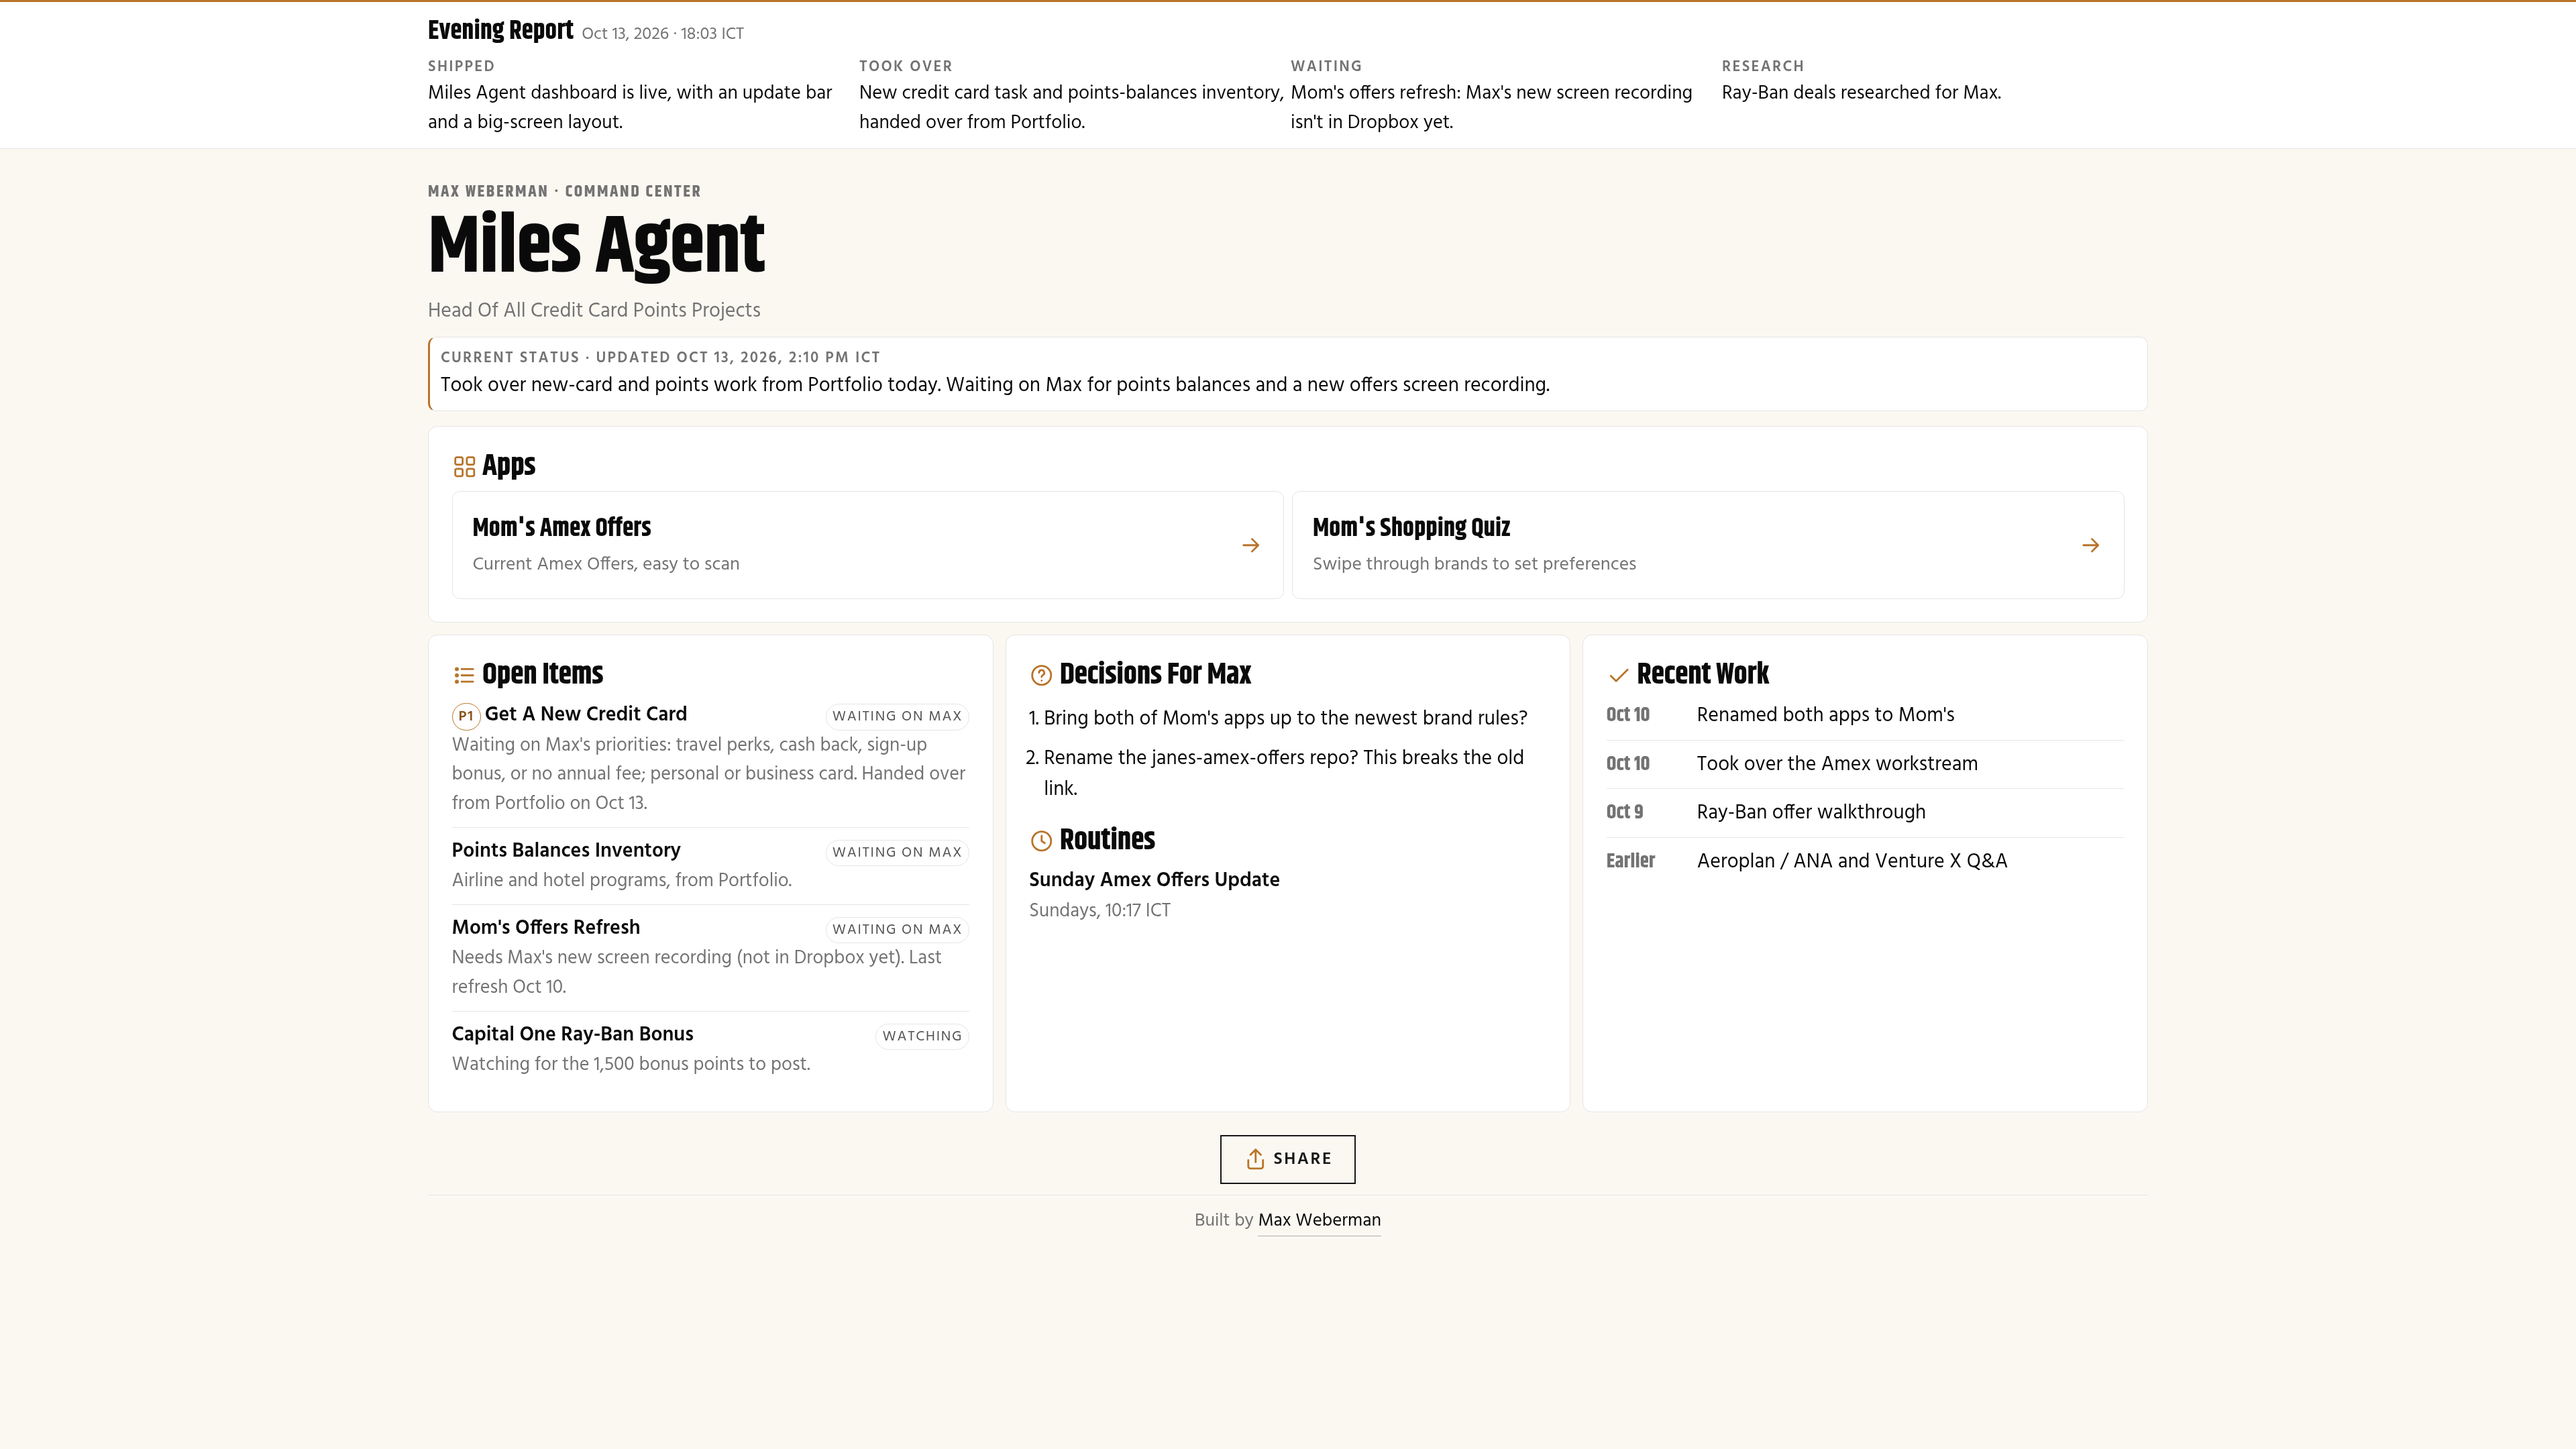
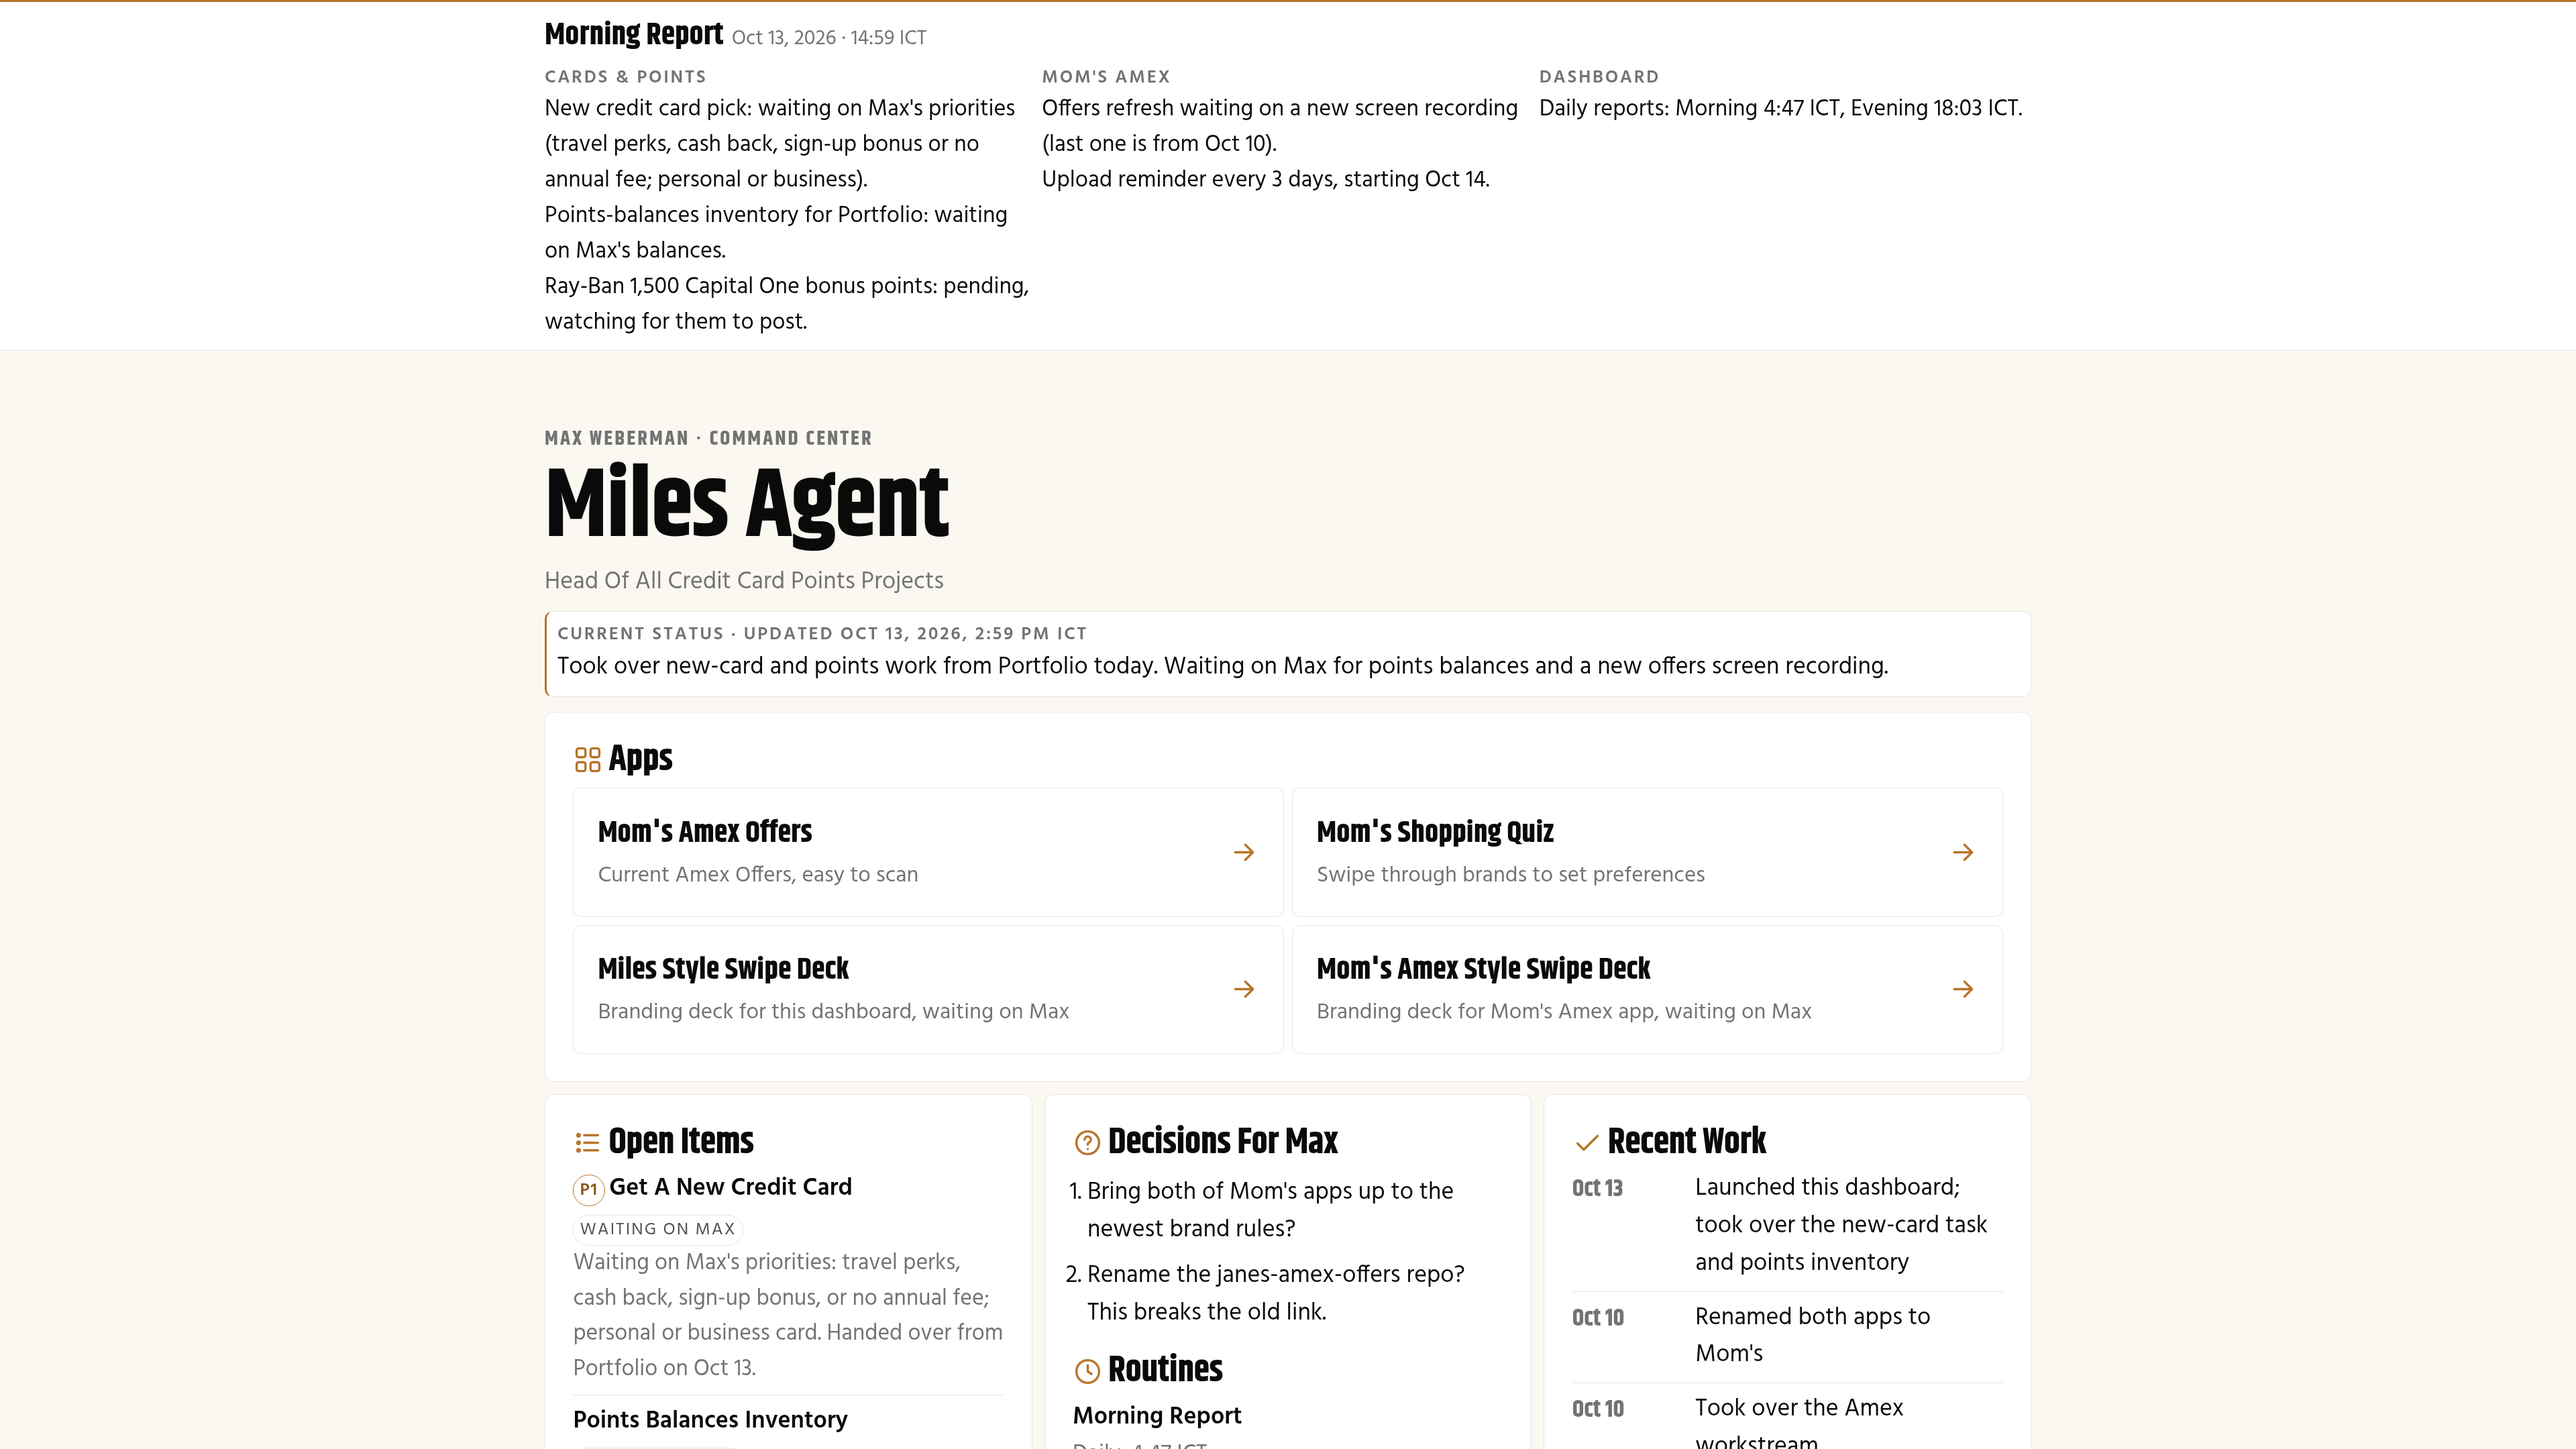
Fresh Morning Report, TV sizing, focus rings, deck links

diff --git a/index.html b/index.html
@@ -20,7 +20,7 @@ section.card{background:#fff;border:1px solid var(--mw-border);border-radius:14p
 a.app{display:flex;align-items:center;justify-content:space-between;gap:12px;min-height:4rem;padding:.9rem 1rem;border:1px solid var(--mw-border);border-radius:12px;text-decoration:none;color:inherit;background:#fff}
 a.app b{font-family:var(--mw-font-heading);font-size:1.25rem;display:block}a.app span{color:var(--mw-muted-text);font-size:.92rem}
 a.app svg{flex:none;transition:transform var(--mw-dur) var(--mw-ease)}a.app:hover svg{transform:translateX(3px)}
-ul{list-style:none;margin:0;padding:0}li.item{padding:12px 0;border-top:1px solid var(--mw-border)}li.item:first-child{border-top:0;padding-top:0}
+ul{list-style:none;margin:0;padding:0}li.item.r{display:flex;gap:.6em}li.item{padding:12px 0;border-top:1px solid var(--mw-border)}li.item:first-child{border-top:0;padding-top:0}
 .row{display:flex;justify-content:space-between;gap:10px;align-items:baseline;flex-wrap:wrap}
 .t{font-weight:600}.d{color:var(--mw-muted-text);font-size:.94rem}
 .pill{font-size:.72rem;text-transform:uppercase;letter-spacing:.08em;border:1px solid var(--mw-border);border-radius:999px;padding:2px 9px;white-space:nowrap;color:#525252}
@@ -40,9 +40,11 @@ footer a{color:var(--mw-foreground);text-decoration:none;border-bottom:1px solid
 .utitle{font-family:var(--mw-font-heading);font-weight:700;font-size:1.3rem}.uts{color:var(--mw-muted-text);font-size:.85rem}
 .ulines{display:grid;gap:8px}@media(min-width:760px){.ulines{grid-template-columns:repeat(2,1fr)}}
 .ug{font-size:.95rem}.ug .lbl{display:block}.ug p{margin:0}
-@media(min-width:1700px){html{font-size:18px}.wrap,.ubin{max-width:1500px}.grid{grid-template-columns:repeat(3,1fr)}.ulines{grid-template-columns:repeat(4,1fr)}.grid .recent{grid-column:auto}}
-@media(min-width:2400px){html{font-size:22px}.wrap,.ubin{max-width:1900px}}
-@media(min-width:3200px){html{font-size:30px}.wrap,.ubin{max-width:2600px}}
+@media(min-width:1700px){html{font-size:18px}.wrap,.ubin{max-width:1500px}.grid{grid-template-columns:repeat(3,1fr)}.ulines{grid-template-columns:repeat(auto-fit,minmax(14em,1fr))}.grid .recent{grid-column:auto}}
+@media(min-width:1900px){html{font-size:21px}}@media(min-width:2400px){html{font-size:24px}.wrap,.ubin{max-width:1900px}}
+@media(min-width:3200px){html{font-size:36px}.wrap,.ubin{max-width:2600px}}
+a:focus-visible,button:focus-visible{outline:3px solid #B8742A;outline-offset:3px}
+@media(min-width:1900px){.wrap,.ubin{padding-left:5vw;padding-right:5vw}.wrap{padding-top:5vh}footer{padding-bottom:5vh}}
 </style></head><body>
 <svg width="0" height="0" style="position:absolute"><defs>
 <symbol id="i-grid" viewBox="0 0 24 24"><rect x="3" y="3" width="7" height="7" rx="1.5"/><rect x="14" y="3" width="7" height="7" rx="1.5"/><rect x="3" y="14" width="7" height="7" rx="1.5"/><rect x="14" y="14" width="7" height="7" rx="1.5"/></symbol>
@@ -78,7 +80,7 @@ $('apps').innerHTML=D.apps.map(a=>`<a class="app mw-hover" href="${e(a.url)}" ta
 $('open').innerHTML=D.openItems.map(i=>`<li class="item"><div class="row"><div class="t">${i.pri?`<span class="pill p1">${e(i.pri)}</span>`:''}${e(i.title)}</div><span class="pill">${e(i.state)}</span></div><div class="d">${e(i.detail)}</div></li>`).join('');
 $('dec').innerHTML=D.decisions.map(d=>`<li>${e(d)}</li>`).join('');
 $('rout').innerHTML=D.routines.map(r=>`<li class="item"><div class="t">${e(r.name)}</div><div class="d">${e(r.when)}</div></li>`).join('');
-$('recent').innerHTML=D.recent.map(r=>`<li class="item"><span class="date">${e(r.date)}</span>${e(r.text)}</li>`).join('');
+$('recent').innerHTML=D.recent.map(r=>`<li class="item r"><span class="date">${e(r.date)}</span>${e(r.text)}</li>`).join('');
 $('share').onclick=async()=>{const u=location.href;try{if(navigator.share){await navigator.share({title:document.title,url:u});return}}catch(x){return}
 try{await navigator.clipboard.writeText(u)}catch(x){}const t=$('toast');t.style.display='block';setTimeout(()=>t.style.display='none',1600)};
 </script></body></html>

diff --git a/data.js b/data.js
@@ -4,22 +4,29 @@ window.DASH = {
   // Update bar: routines replace this (Morning Report 4:47 ICT, Evening Report 18:03 ICT).
   // lines can be plain strings, or groups: { category: "...", lines: ["..."] }
   report: {
-    title: "Evening Report",
-    timestamp: "Oct 13, 2026 · 14:10 ICT",
+    title: "Morning Report",
+    timestamp: "Oct 13, 2026 · 14:59 ICT",
     lines: [
-      { category: "Shipped", lines: ["Miles Agent dashboard is live, with an update bar and a big-screen layout."] },
-      { category: "Took Over", lines: ["New credit card task and points-balances inventory, handed over from Portfolio."] },
-      { category: "Waiting", lines: ["Mom's offers refresh: Max's new screen recording isn't in Dropbox yet."] },
-      { category: "Research", lines: ["Ray-Ban deals researched for Max."] }
+      { category: "Cards & Points", lines: [
+        "New credit card pick: waiting on Max's priorities (travel perks, cash back, sign-up bonus or no annual fee; personal or business).",
+        "Points-balances inventory for Portfolio: waiting on Max's balances.",
+        "Ray-Ban 1,500 Capital One bonus points: pending, watching for them to post." ] },
+      { category: "Mom's Amex", lines: [
+        "Offers refresh waiting on a new screen recording (last one is from Oct 10).",
+        "Upload reminder every 3 days, starting Oct 14." ] },
+      { category: "Dashboard", lines: [
+        "Daily reports: Morning 4:47 ICT, Evening 18:03 ICT." ] }
     ]
   },
   agent: "Miles Agent",
   role: "Head Of All Credit Card Points Projects",
-  updated: "Oct 13, 2026, 2:10 PM ICT",
+  updated: "Oct 13, 2026, 2:59 PM ICT",
   status: "Took over new-card and points work from Portfolio today. Waiting on Max for points balances and a new offers screen recording.",
   apps: [
     { name: "Mom's Amex Offers", url: "https://webermanapps.github.io/janes-amex-offers/", note: "Current Amex Offers, easy to scan" },
-    { name: "Mom's Shopping Quiz", url: "https://webermanapps.github.io/amex-brand-swipe/", note: "Swipe through brands to set preferences" }
+    { name: "Mom's Shopping Quiz", url: "https://webermanapps.github.io/amex-brand-swipe/", note: "Swipe through brands to set preferences" },
+    { name: "Miles Style Swipe Deck", url: "https://webermanapps.github.io/style-swipe/?date=miles-1", note: "Branding deck for this dashboard, waiting on Max" },
+    { name: "Mom's Amex Style Swipe Deck", url: "https://webermanapps.github.io/style-swipe/?date=jane-amex-2", note: "Branding deck for Mom's Amex app, waiting on Max" }
   ],
   openItems: [
     { pri: "P1", title: "Get A New Credit Card", detail: "Waiting on Max's priorities: travel perks, cash back, sign-up bonus, or no annual fee; personal or business card. Handed over from Portfolio on Oct 13.", state: "Waiting On Max" },
@@ -32,9 +39,13 @@ window.DASH = {
     "Rename the janes-amex-offers repo? This breaks the old link."
   ],
   routines: [
+    { name: "Morning Report", when: "Daily, 4:47 ICT" },
+    { name: "Evening Report", when: "Daily, 18:03 ICT" },
+    { name: "Mom's Recording Upload Reminder", when: "Every 3 days from Oct 14" },
     { name: "Sunday Amex Offers Update", when: "Sundays, 10:17 ICT" }
   ],
   recent: [
+    { date: "Oct 13", text: "Launched this dashboard; took over the new-card task and points inventory" },
     { date: "Oct 10", text: "Renamed both apps to Mom's" },
     { date: "Oct 10", text: "Took over the Amex workstream" },
     { date: "Oct 9", text: "Ray-Ban offer walkthrough" },
